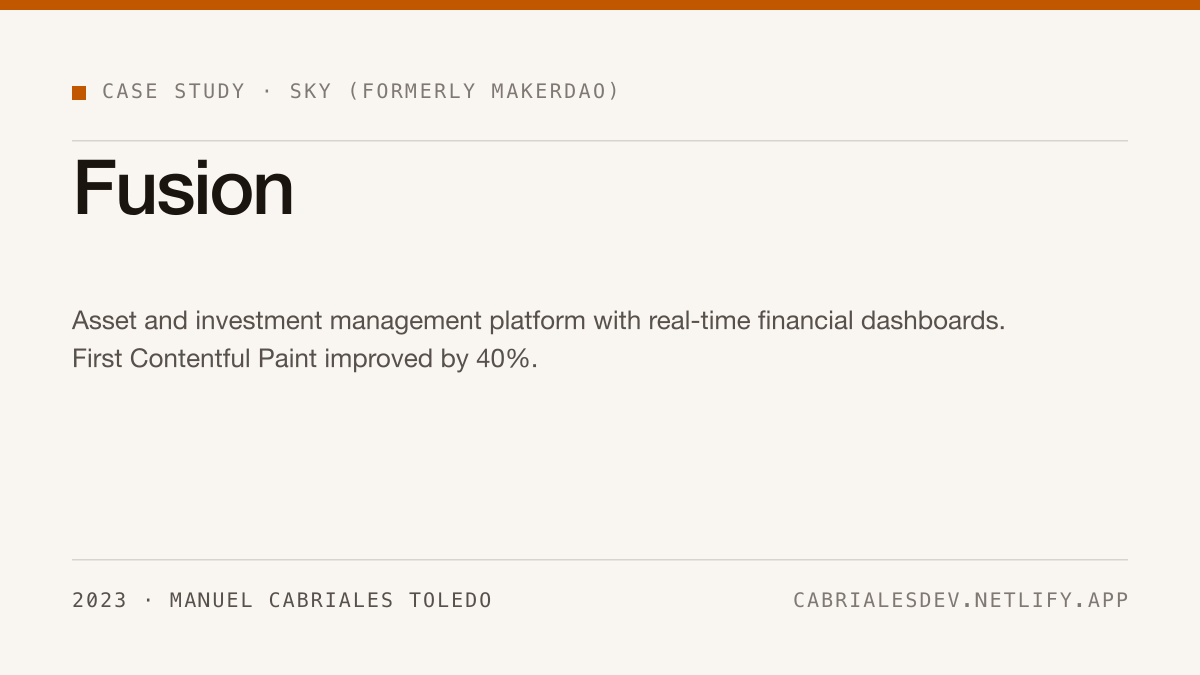
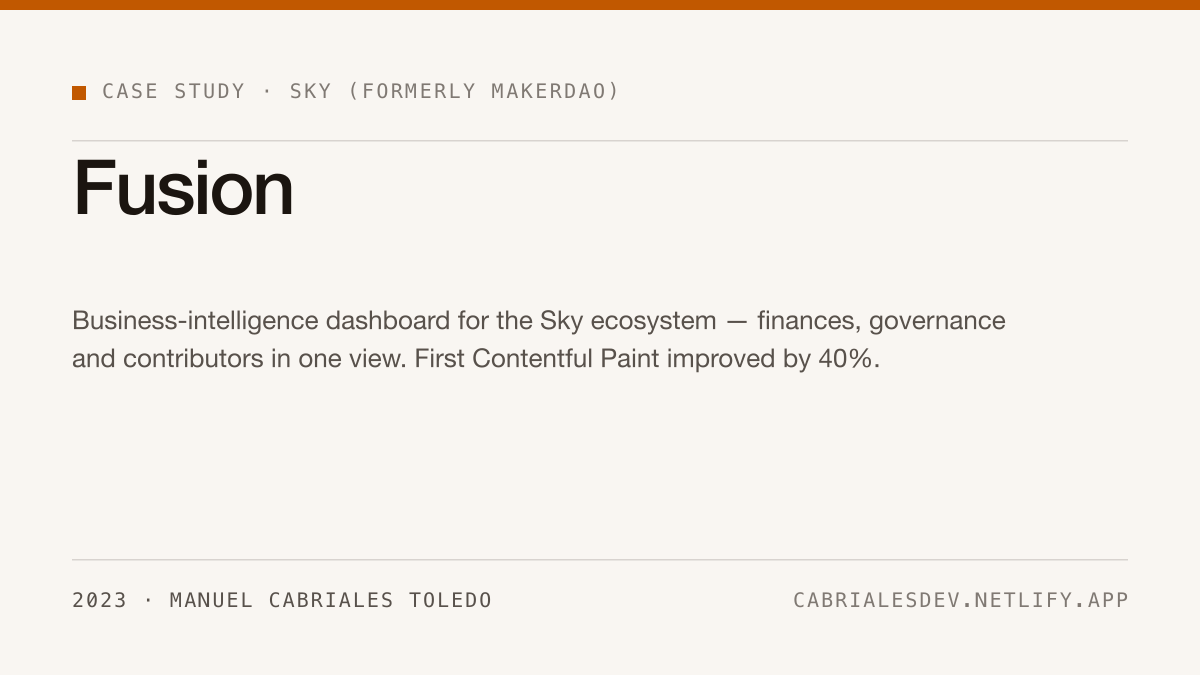
feat: update portfolio from November 2026 CV
Add AI engineering skills, Express, NestJS, MongoDB, TanStack Query and
Docker to the stack. Add the WhatsApp booking agent as a project and as
the current independent role; close the DSpot role in October 2026.
Role becomes Senior Full Stack & AI Engineer. Projects can link a
write-up post, used when there is no public live site.

Changed region(s): [[0.0617, 0.4667, 0.8325, 0.56]]

diff --git a/src/data/projects.ts b/src/data/projects.ts
@@ -1,6 +1,7 @@
 /**
- * Selected work. Source of truth: CV, plus two shipped products the CV omits
- * (MIPS Portal) that are worth keeping because they are publicly linkable.
+ * Selected work. Source of truth: CV (November 2026), plus shipped products the
+ * CV omits (MIPS Portal, Achra) that are worth keeping because they are
+ * publicly linkable. The booking agent's client stays anonymised.
  *
  * `impact` holds only figures the CV states. Where there is no measured number
  * the field stays null and the UI renders nothing — a case study with a real
@@ -24,6 +25,8 @@ export interface Project {
   stack: string[];
   url: string | null;
   repo: string | null;
+  /** Site-relative path to a post that tells the full story, when one exists. */
+  writeup?: string | undefined;
   featured: boolean;
 }
 
@@ -43,6 +46,32 @@ export const PROJECTS: Project[] = [
     stack: ['Next.js', 'React', 'TypeScript', 'WebSockets', 'SWR', 'Material UI'],
     url: 'https://fusion-nine-eta.vercel.app/',
     repo: null,
+    featured: true,
+  },
+  {
+    slug: 'whatsapp-booking-agent',
+    name: 'WhatsApp Booking Agent',
+    context: 'Independent · spa business in Spain',
+    year: '2026',
+    summary:
+      'Production AI agent that books treatments, answers inquiries and classifies orders over WhatsApp and Instagram — no front desk in the loop.',
+    problem:
+      'Almost every booking arrives as a free-form chat message: several people, a vague day, a gift card, a deposit. The agent had to understand that, check the real calendar, create the booking with its deposit and keep the CRM current — and know when not to answer and hand the conversation to the team instead.',
+    contribution:
+      'Built and operate it end to end in Node.js and TypeScript on Cloudflare Workers, routing conversations through OpenRouter to Claude and OpenAI. A Durable Object per contact batches messages into a single turn so replies never cross; the model works through tools with validated schemas and never writes to the calendar (Wix) or the CRM (GoHighLevel) itself — code checks every action, and guards review each draft before it is sent. Every production failure is logged in a numbered risk map that drives the design and the test suite.',
+    impact: null,
+    stack: [
+      'Node.js',
+      'TypeScript',
+      'Cloudflare Workers',
+      'OpenRouter',
+      'Claude',
+      'OpenAI',
+      'WhatsApp Business API',
+    ],
+    url: null,
+    repo: null,
+    writeup: '/blog/111-failures-of-a-booking-chatbot/',
     featured: true,
   },
   {

diff --git a/src/data/experience.ts b/src/data/experience.ts
@@ -1,5 +1,6 @@
 /**
- * Work history, newest first. Source of truth: CV (CV-Manuel-FullStack.pdf).
+ * Work history, newest first. Source of truth: CV
+ * (Manuel Alejandro Cabriales Toledo.pdf, November 2026).
  *
  * `highlights` carry outcomes, not tool lists — every figure here comes from the
  * CV verbatim. Nothing is estimated or rounded up. If a bullet has no number, it
@@ -15,6 +16,11 @@ export interface Role {
   /** ISO dates. `end: null` means current. */
   start: string;
   end: string | null;
+  /**
+   * Own work rather than employment. Kept out of the Person node's `worksFor`,
+   * which would otherwise name "Independent" as an employer.
+   */
+  independent?: boolean | undefined;
   summary: string;
   highlights: { label: string; detail: string }[];
   stack: string[];
@@ -22,12 +28,36 @@ export interface Role {
 
 export const EXPERIENCE: Role[] = [
   {
+    company: 'Independent project',
+    url: null,
+    position: 'AI Engineer',
+    location: 'Montevideo, Uruguay — Remote',
+    start: '2026-10',
+    end: null,
+    independent: true,
+    summary:
+      'A production AI customer-service agent for a spa business in Spain, answering customers on WhatsApp and Instagram.',
+    highlights: [
+      {
+        label: 'WhatsApp booking agent',
+        detail:
+          'Built the agent in Node.js, routing conversations through OpenRouter to Claude and OpenAI models, with tools behind validated schemas so the model asks and the code decides.',
+      },
+      {
+        label: 'End-to-end automation',
+        detail:
+          'Automated appointment scheduling, inquiries and order classification end to end, replacing manual front-desk triage.',
+      },
+    ],
+    stack: ['Node.js', 'TypeScript', 'OpenRouter', 'Claude', 'OpenAI', 'WhatsApp Business API', 'Cloudflare Workers'],
+  },
+  {
     company: 'DSpot',
     url: null,
     position: 'Senior Full Stack Engineer',
     location: 'Montevideo, Uruguay — Remote',
     start: '2021-12',
-    end: null,
+    end: '2026-10',
     summary:
       'Frontend architecture for financial products, plus the design system and internal tooling the rest of the team builds on.',
     highlights: [
@@ -124,6 +154,6 @@ export const LANGUAGES = [
   { name: 'Spanish', level: 'Native' },
   {
     name: 'English',
-    level: 'Professional working proficiency — technical and business communication',
+    level: 'Professional working proficiency (B2) — daily technical and business communication on international teams',
   },
 ] as const;

diff --git a/src/data/stack.ts b/src/data/stack.ts
@@ -16,21 +16,48 @@ export interface StackGroup {
 
 export const STACK: StackGroup[] = [
   {
+    label: 'AI engineering',
+    items: [
+      'LLM APIs (Claude, OpenAI via OpenRouter)',
+      'Agent design & orchestration',
+      'Function calling / tool use',
+      'Prompt design',
+      'Conversational flows & task classification',
+      'WhatsApp Business API',
+      'Cursor',
+      'Claude Code',
+    ],
+  },
+  {
     label: 'Frontend',
     items: [
       'React 18+',
       'Next.js (App Router)',
-      'TypeScript',
       'React Server Components',
       'React Native',
       'Redux',
       'Zustand',
       'SWR',
+      'TanStack Query',
     ],
   },
   {
     label: 'Backend & APIs',
-    items: ['Node.js', 'GraphQL (Apollo)', 'REST', 'PostgreSQL', 'Data modeling', 'WebSockets'],
+    items: [
+      'Node.js',
+      'Express',
+      'NestJS',
+      'GraphQL (Apollo)',
+      'REST API design',
+      'PostgreSQL',
+      'MongoDB',
+      'Data modeling',
+      'WebSockets',
+    ],
+  },
+  {
+    label: 'Languages',
+    items: ['TypeScript', 'JavaScript (ES6+)', 'SQL', 'HTML5', 'CSS3'],
   },
   {
     label: 'Design systems',
@@ -46,6 +73,6 @@ export const STACK: StackGroup[] = [
   },
   {
     label: 'Tooling',
-    items: ['Git', 'CI/CD (Vercel, GitHub Actions)', 'Webpack', 'Monorepos'],
+    items: ['Git', 'CI/CD (Vercel, GitHub Actions)', 'Docker', 'Webpack', 'Monorepos'],
   },
 ];

diff --git a/src/config/site.ts b/src/config/site.ts
@@ -16,11 +16,11 @@ export const SITE = {
   name: 'Manuel Cabriales Toledo',
   /** Used where the full name does not fit: nav wordmark, OG author byline. */
   shortName: 'Manuel Cabriales',
-  role: 'Senior Full Stack Engineer',
+  role: 'Senior Full Stack & AI Engineer',
 
   /** Default <meta description>. Pages override; the blog derives per-post. */
   description:
-    'Senior full stack engineer building production React, Next.js and Node applications. Based in Montevideo, Uruguay.',
+    'Senior full stack engineer building production React, Next.js and Node applications, and production AI agents on Claude and OpenAI. Based in Montevideo, Uruguay.',
 
   locale: 'en',
   /**
@@ -64,7 +64,7 @@ export const SITE = {
     path: '/og/default.png',
     width: 1200,
     height: 675,
-    alt: 'Manuel Cabriales Toledo — Senior Full Stack Engineer',
+    alt: 'Manuel Cabriales Toledo — Senior Full Stack & AI Engineer',
   },
 
   /**

diff --git a/src/data/profile.ts b/src/data/profile.ts
@@ -11,5 +11,6 @@ export const PROFILE = {
   summary: [
     'Computer Science engineer, nine years building full stack web and mobile applications. Deep in the React and Next.js ecosystem on the frontend, with hands-on backend work in Node.js, GraphQL, REST APIs and PostgreSQL.',
     'Most of my time goes to architecture that survives contact with a growing codebase, performance work with numbers attached to it, and shipping products that stay reliable end to end.',
+    'Now applying the same fundamentals to AI engineering. I built and run a production WhatsApp agent for a spa business that orchestrates Claude and OpenAI through OpenRouter for scheduling, inquiries and order classification — with the model interpreting and deterministic, tested code deciding. Cursor and Claude Code are part of my daily workflow.',
   ],
 } as const;

diff --git a/src/lib/schema.ts b/src/lib/schema.ts
@@ -41,7 +41,7 @@ const ref = (id: string) => ({ '@id': id });
  * relationship is the kind of overreach that gets structured data ignored.
  */
 export function personNode(): SchemaNode {
-  const current = EXPERIENCE.find((role) => role.end === null);
+  const current = EXPERIENCE.find((role) => role.end === null && !role.independent);
   const knowsAbout = [...new Set(STACK.flatMap((group) => group.items))];
 
   return {
